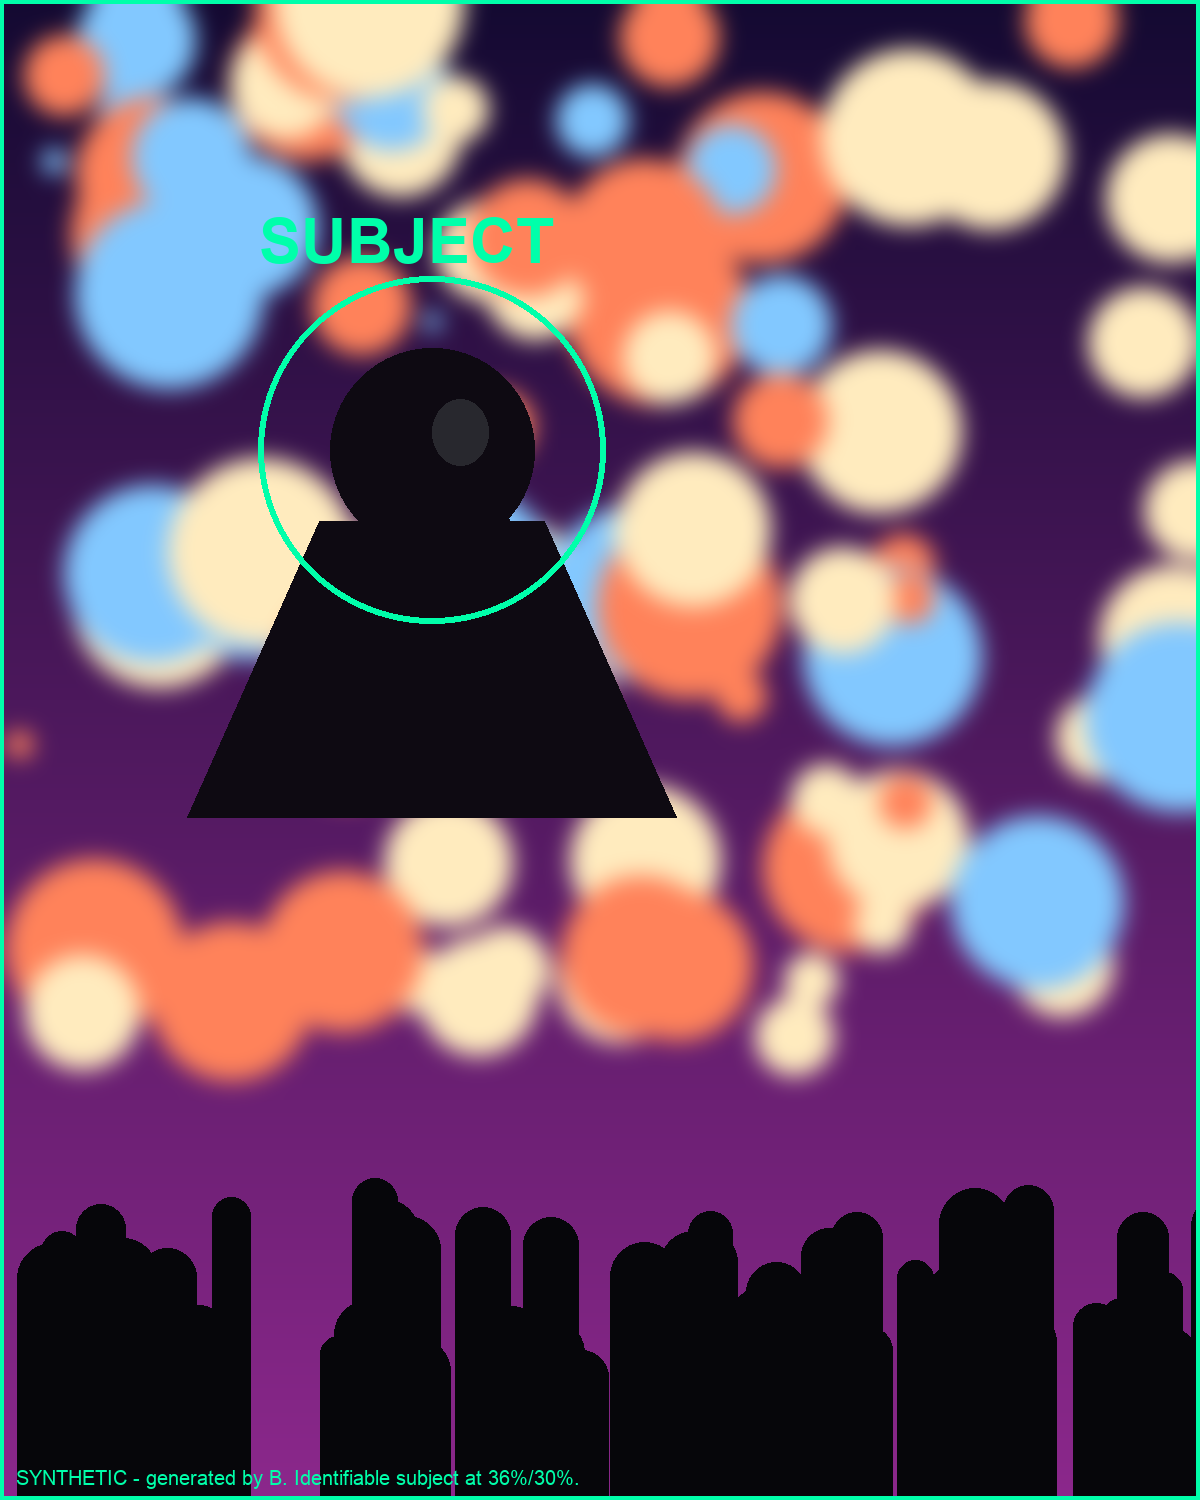
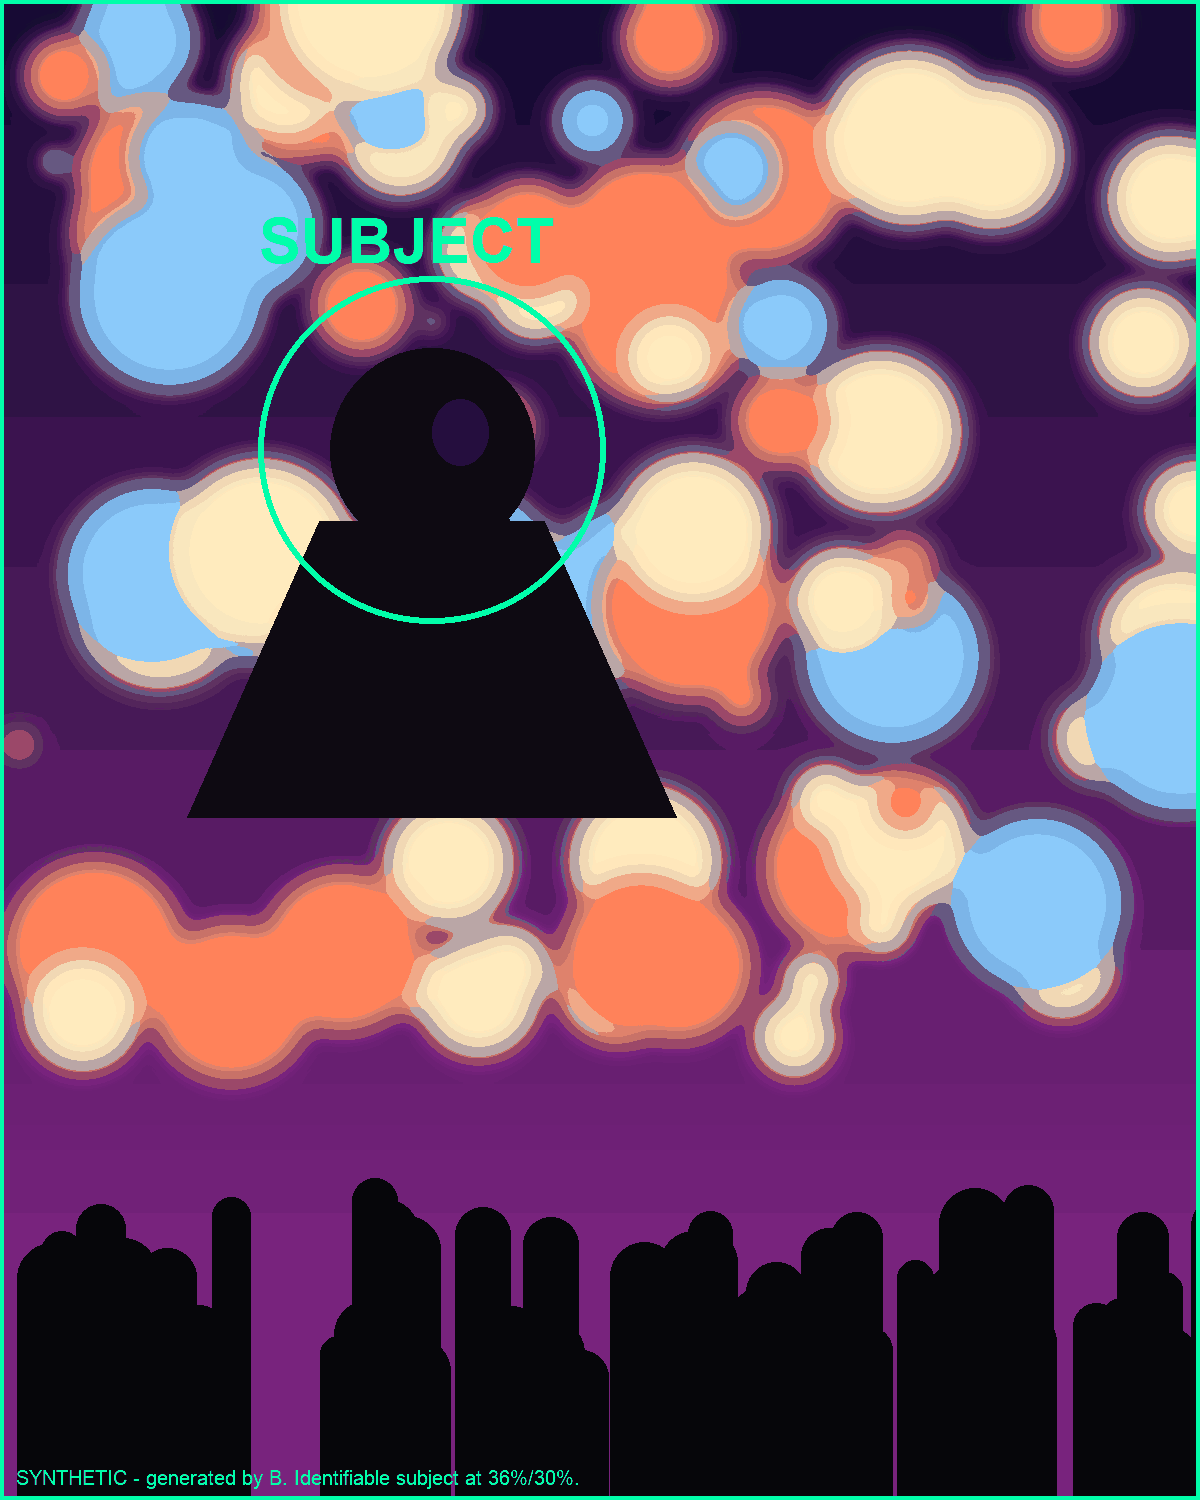
docs(v3): optimise the proposed fixtures within budget; correct 'shipped' to 'present in the candidate'
photo-subject-4x5 567,510 -> 63,311 bytes (32 colours); photo-subject-16x9
444,421 -> 62,448 (64). Additions 125,759; with the existing six files 302,061
against BF4's 409,600 budget, leaving 107,539 headroom. The budget is not raised.

Subject and edge markers verified on the written files. Recorded for C: at 24 and
32 colours the 16:9 file silently lost the marker colour from its palette - ring
and all four borders gone while the image still looked plausible - so any re-encode
must re-run the marker check rather than trust appearance.

Wording corrected per the owner: the footer defect is present in candidate
3c6f15a4, not 'shipped'; no build is distributed or installed.

diff --git a/docs/product-v3/V3_REVIEW_3c6f15a4_BASELINE.md b/docs/product-v3/V3_REVIEW_3c6f15a4_BASELINE.md
@@ -79,7 +79,7 @@ am not asserting it.
 
 ---
 
-## 3. The footer regression I predicted has shipped — reservation feedback is gone
+## 3. The footer regression I predicted is present in the candidate — reservation feedback is gone
 
 `12be25d6` implements the owner's Option B **in the resolver**, which is the approach I warned
 against, and its only change to `ListingDetailScreen.tsx` was **the comment**. Verified at
@@ -92,7 +92,7 @@ against, and its only change to `ListingDetailScreen.tsx` was **the comment**. V
 * `:1464`–`:1470` — the secondary `BarAction`, now **Buy Now**, has **no `loading` and no
   `pendingLabel`**.
 
-Buy Now is the only action that sets `reserving`. So on this candidate, **pressing Buy Now starts
+Buy Now is the only action that sets `reserving`. So in this candidate, **pressing Buy Now starts
 the reserve call and nothing on screen says so.** Both pills dim, because the resolver sets
 `disabled: reserving` on both, and neither explains why. CFT-203 — "visible while the reserve call
 is in flight" — is dropped in exactly the one mode the ruling touched.
@@ -157,3 +157,44 @@ range, noise or focal ambiguity; if that matters before acceptance it needs a re
 | Reservation feedback | **defect found in source** (§3); rendering it needs a `reserving` fixture |
 | F-91-6 Filters glyph | **open**, with a larger cause found (§2) |
 | Photographic 4:5 with a subject | **proposed** (§4), awaiting C moving it into the shared set |
+
+---
+
+## 6. Addendum — wording correction, and the optimised fixtures
+
+**Correction (owner, 2026-09-25).** §3 said the footer defect "has shipped". It has not: it is
+**present in the candidate `3c6f15a4`**. Nothing is distributed, no build exists on the device, and
+"shipped" claims a reach the evidence does not support. The section above is corrected; the commit
+message of `4882cd6a` carries the original word and is left as written, with this note as the
+correction of record.
+
+**The proposed fixtures are optimised and within the existing budget.** They are **synthetic
+subject-framing fixtures, not photographs** — the owner's description, and the accurate one.
+
+| file | before | after | colours | dimensions |
+|---|---|---|---|---|
+| `photo-subject-4x5.png` | 567,510 | **63,311** (11.2 %) | 32 | 1200 × 1500, ratio 0.800 |
+| `photo-subject-16x9.png` | 444,421 | **62,448** (14.1 %) | 64 | 1600 × 900, ratio 1.778 |
+
+| | bytes |
+|---|---|
+| proposed additions | **125,759** |
+| existing `assets/qa-posters/` (6 files) | 176,302 |
+| **combined** | **302,061** |
+| budget, `tests/v3-bundled-fixtures.test.ts` BF4 | 409,600 |
+| **headroom remaining** | **107,539** |
+
+**The budget is not raised.** Median-cut quantisation with dithering off, then `optimize=True`.
+
+**Every marker verified on the written files, not assumed:** the subject's head at 36 % / 30 % is
+still dark ink, the green ring is intact (4 310 and 3 932 sampled pixels), all four edge borders
+are present at mid-edge, and the crowd silhouette survives at the bottom edge.
+
+**One result worth passing to C:** at 24 and 32 colours the **16:9** file lost the marker colour
+entirely — median cut dropped it from the palette, so the ring and all four borders vanished while
+the image still looked plausible. It passes at 48 and is written at 64 for margin. **If these are
+re-encoded, re-run the marker check rather than trusting the file's appearance** — a fixture whose
+markers are silently gone is worse than no fixture, because it reports a pass.
+
+Files: `fixtures-proposed/`. They are C's to move into `assets/qa-posters/`, with `DEV_POSTER_NAMES`
+and BF4's shape list updated, so one set exists.
